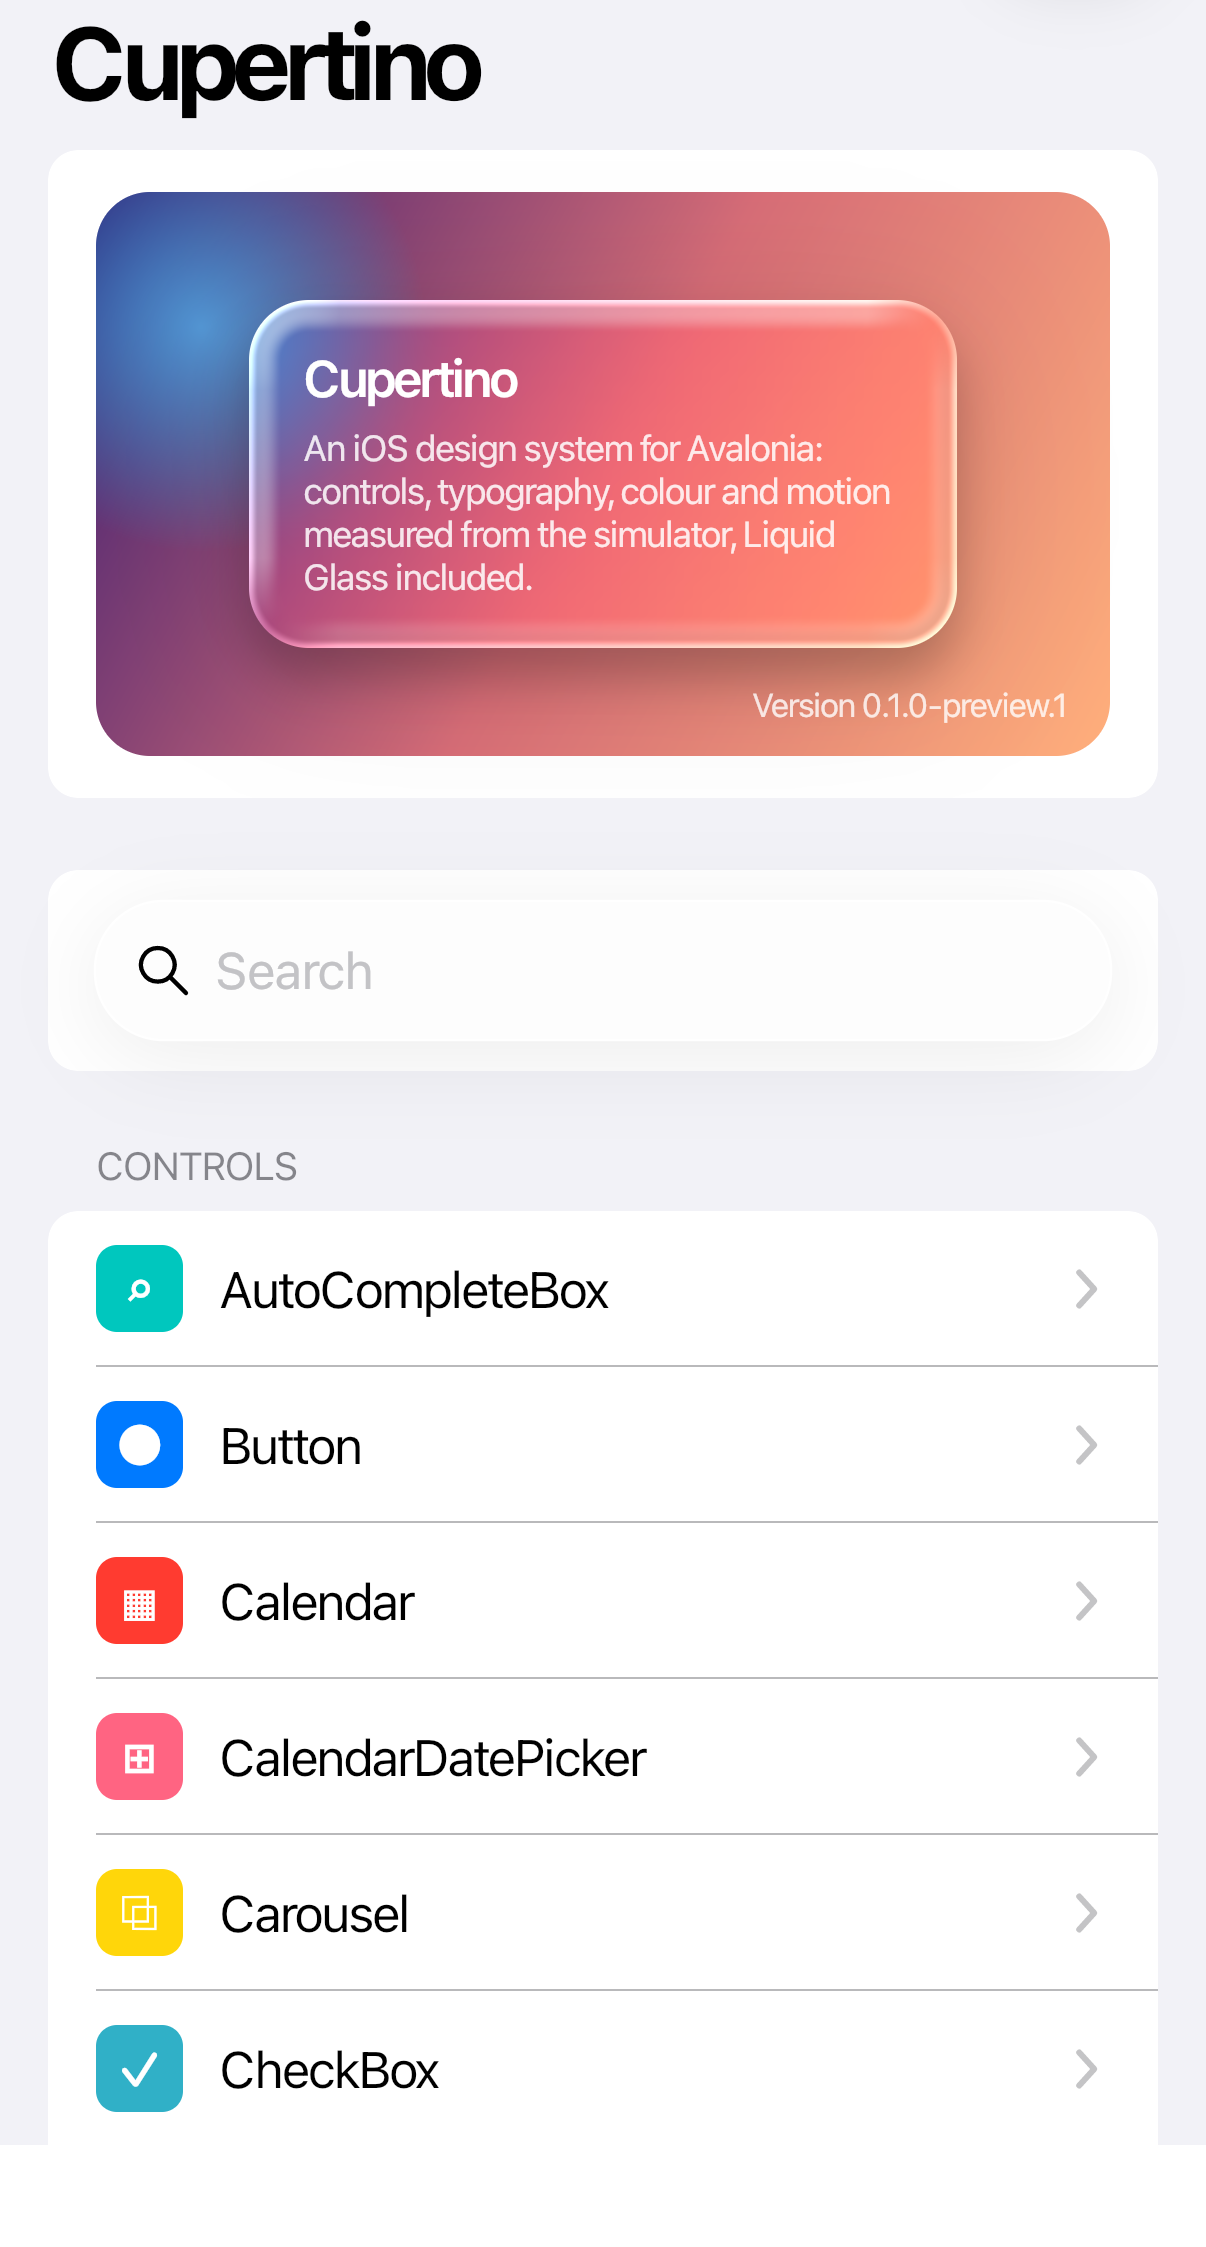
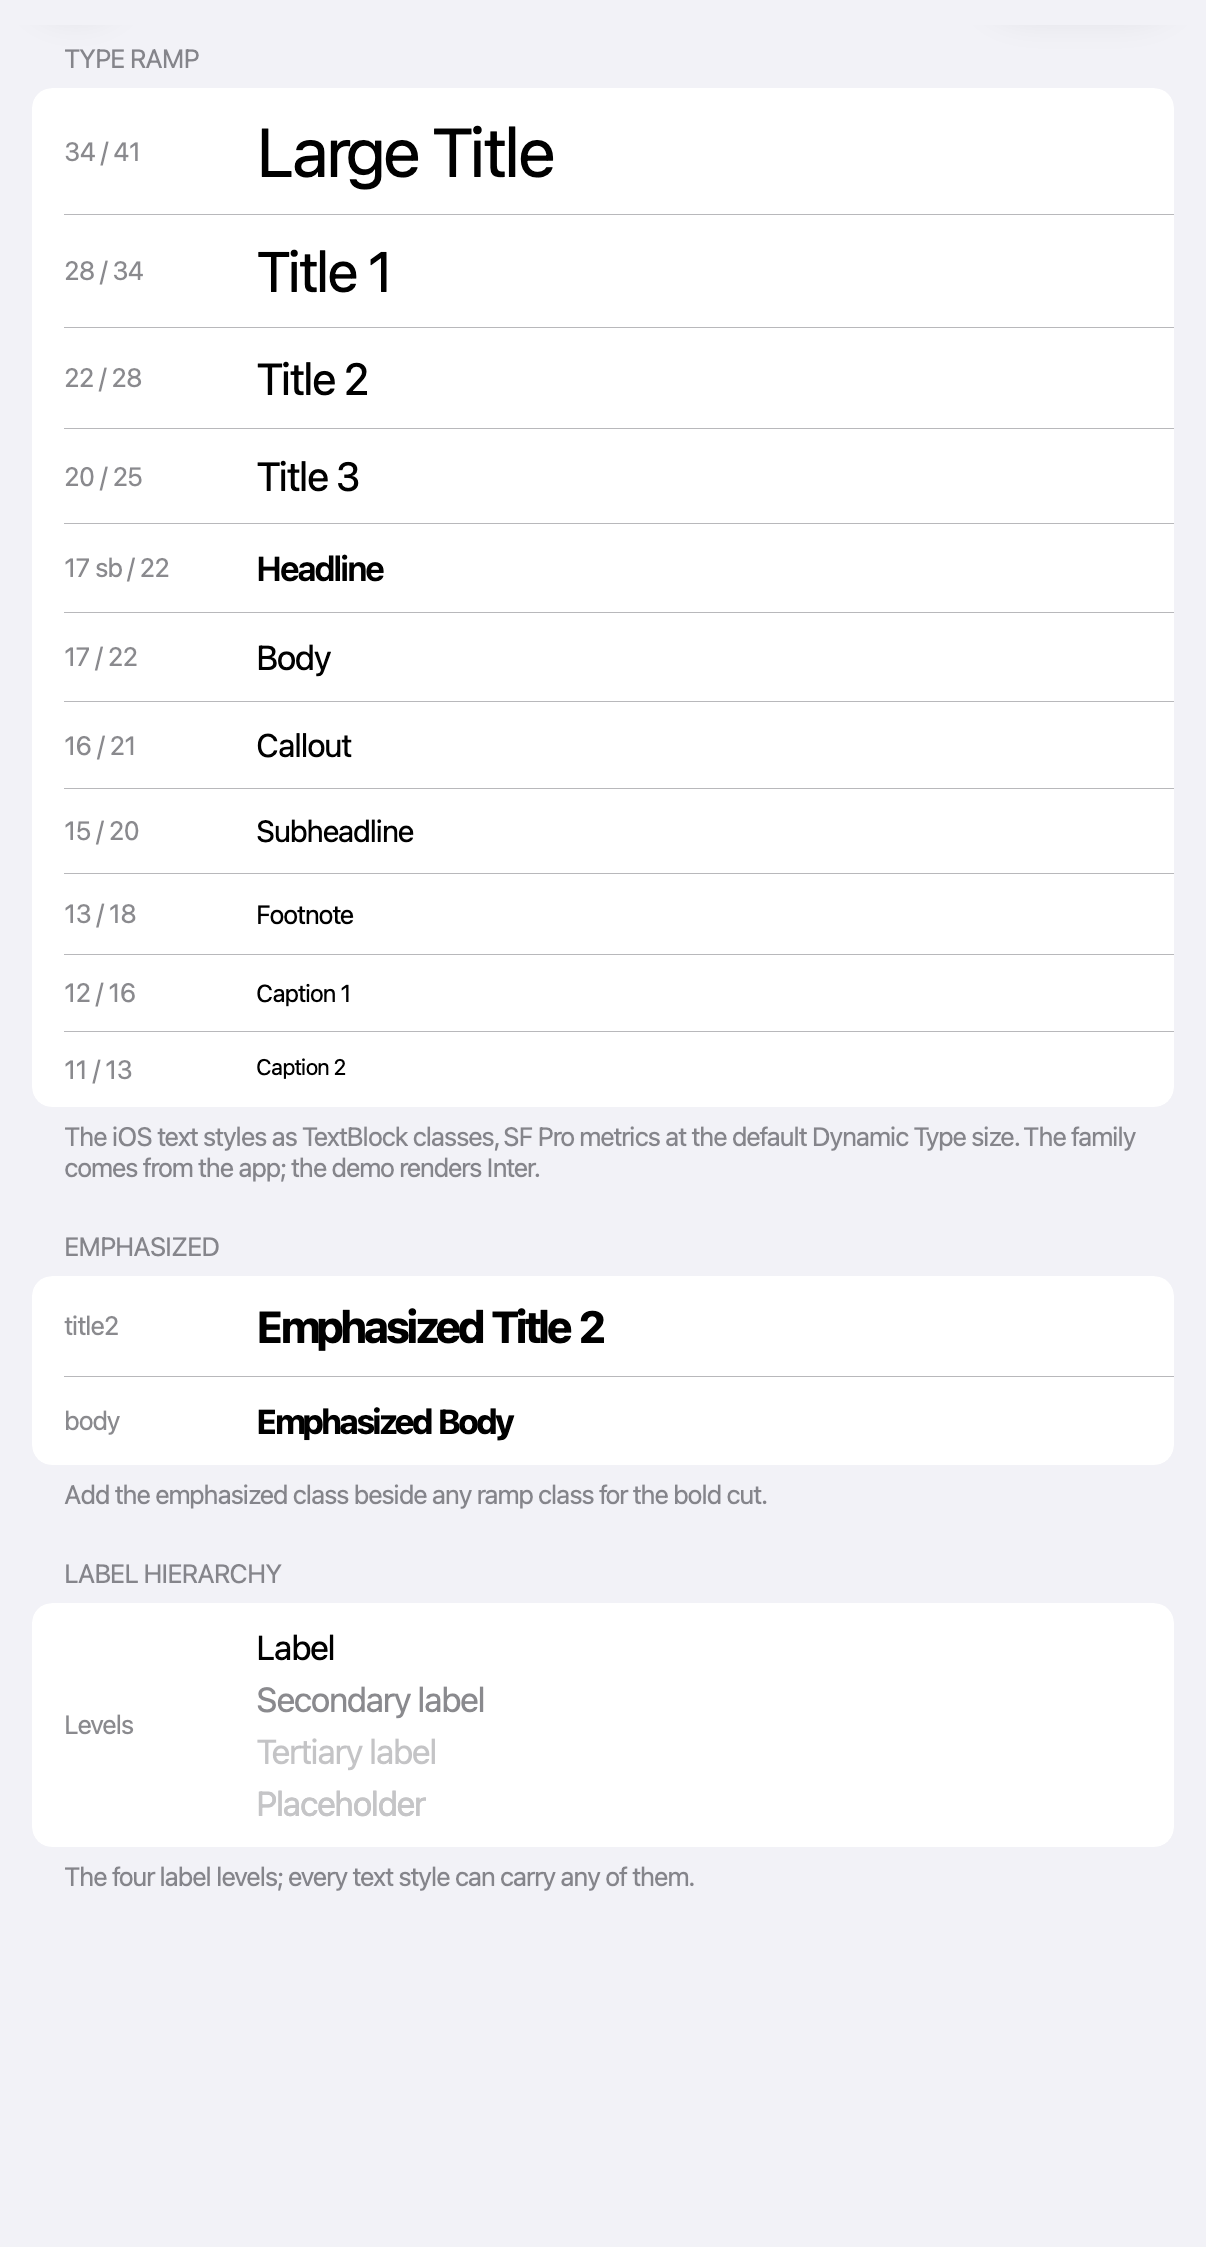
Fix gallery design previews

diff --git a/README.md b/README.md
@@ -55,17 +55,19 @@ There is an iOS head at `samples/Cupertino.Gallery.iOS`.
 
 #### Design language
 
-<table>
+<table width="100%">
   <tr>
-    <td align="center" width="25%"><a href="images/liquid-glass.png"><img src="images/liquid-glass.png" alt="Liquid Glass" width="200"></a><br><sub>Liquid Glass</sub></td>
-    <td align="center" width="25%"><a href="images/colors.png"><img src="images/colors.png" alt="Colours" width="200"></a><br><sub>Colours</sub></td>
-    <td align="center" width="25%"><a href="images/typography.png"><img src="images/typography.png" alt="Typography" width="200"></a><br><sub>Typography</sub></td>
-    <td align="center" width="25%"><a href="images/icons.png"><img src="images/icons.png" alt="Icons" width="200"></a><br><sub>Icons</sub></td>
+    <td align="center" width="33%"><a href="images/liquid-glass.png"><img src="images/liquid-glass.png" alt="Liquid Glass" width="100%"></a><br><sub>Liquid Glass</sub></td>
+    <td align="center" width="33%"><a href="images/colors.png"><img src="images/colors.png" alt="Colours" width="100%"></a><br><sub>Colours</sub></td>
+    <td align="center" width="33%"><a href="images/typography.png"><img src="images/typography.png" alt="Typography" width="100%"></a><br><sub>Typography</sub></td>
   </tr>
   <tr>
-    <td align="center" width="25%"><a href="images/photos.png"><img src="images/photos.png" alt="Photos" width="200"></a><br><sub>Photos</sub></td>
-    <td align="center" width="25%"><a href="images/lock-screen.png"><img src="images/lock-screen.png" alt="Lock screen" width="200"></a><br><sub>Lock screen</sub></td>
-    <td align="center" width="25%"><a href="images/side-by-side.png"><img src="images/side-by-side.png" alt="Light and dark themes side by side" width="200"></a><br><sub>Light and dark themes</sub></td>
+    <td align="center" colspan="3"><a href="images/icons.png"><img src="images/icons.png" alt="Icons" width="100%"></a><br><sub>Icons</sub></td>
+  </tr>
+  <tr>
+    <td align="center" width="33%"><a href="images/photos.png"><img src="images/photos.png" alt="Photos" width="100%"></a><br><sub>Photos</sub></td>
+    <td align="center" width="33%"><a href="images/lock-screen.png"><img src="images/lock-screen.png" alt="Lock screen" width="100%"></a><br><sub>Lock screen</sub></td>
+    <td align="center" width="33%"><a href="images/side-by-side.png"><img src="images/side-by-side.png" alt="Light and dark themes side by side" width="100%"></a><br><sub>Light and dark themes</sub></td>
   </tr>
 </table>
 
